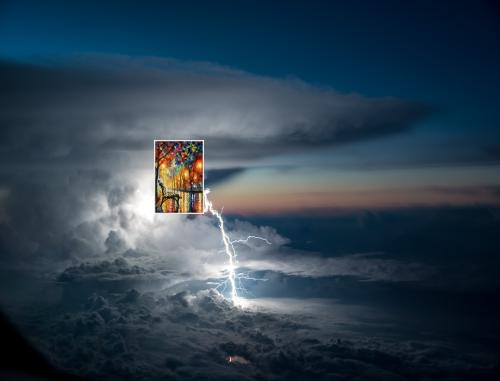
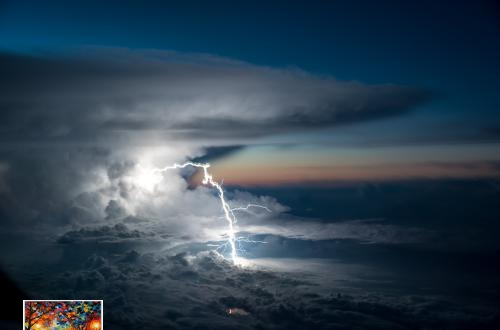
add link image for download, but relativ path

Changed region(s): [[0.3, 0.3636, 0.42, 0.5758], [0.03, 0.9091, 0.21, 1.0]]

diff --git a/src/upload/resize.php b/src/upload/resize.php
@@ -79,6 +79,8 @@
             </form>
 
             <button id="sauvegarder" class="bg-black hover:bg-red-700 text-white text-sm px-4 py-2 border rounded-full">Télécharger</button>
+
+            <div id="link_DL"></div>
         </div>
     </div>
 </div>
@@ -114,10 +116,22 @@
         //TODO controle si image bien positionné et non en dehors du cadre
         if(jQuery("#largeur").val()>=0 && jQuery("#hauteur").val()>=0){
             setHeight();
-            jQuery.post("upload.php",jQuery("#formulaireImg").serialize(), function(data){
+            jQuery.post("upload.php", jQuery("#formulaireImg").serialize(), function(data){
                 //jQuery("#apercu").css('width',data+"px");
-                console.log(data.response);
-            },'json');
+                console.log(data);
+            })
+            .done(function(data) {
+                let p = '<a download="'+data+'" href="'+data+'" title="ImageName">'
+                    p += '<img alt="ImageName" src="'+data+'">'
+                    p += '</a>'            
+
+                $("#link_DL").html("Lien de votre image : "+data)
+                $("#link_DL").html(p)
+                console.log(data);
+            })  
+            .fail(function(data) {
+                $("#link_DL").html("GROSSE ERREUR T TRO NUL LOL")
+            })
         }
         else{
         }

diff --git a/src/upload/upload.php b/src/upload/upload.php
@@ -1,4 +1,4 @@
-<script src="https://cdn.tailwindcss.com"></script>
+
 <?php
 include "../Fusion.php";
 
@@ -8,8 +8,11 @@ if(isset($_POST["widthPrimary"])) {
     $fusion = new Fusion(null, null, "image/");
     $m = $fusion->resizeImages($_POST);
     if($m !== false) {
-        $v = dirname(__FILE__).$m;
-        echo json_encode($v);
+        $r = json_encode(dirname(__FILE__).$m);
+        $r = str_replace('\\\\', "/", $r);
+        $p = "image/copyFinal.jpeg";
+        echo $p;
+        exit;
     } else {
         echo json_encode("MDR T NUL LOL");
     }

diff --git a/src/Fusion.php b/src/Fusion.php
@@ -128,12 +128,7 @@ class Fusion {
 
         imagecopymerge($image1, $image2,$destination_x, $destination_y, 0, 0, $largeur_image2, $hauteur_image2, 100);
         
-        if(imagejpeg($image1, "image/copyFinal.jpeg", 100)) return "image/copyFinal.jpeg";
+        if(imagejpeg($image1, "image/copyFinal.jpeg", 100)) return "\image\copyFinal.jpeg";
         else return false;
     }
-
-    private function getNewImage(){
-
-    }
-
 }
